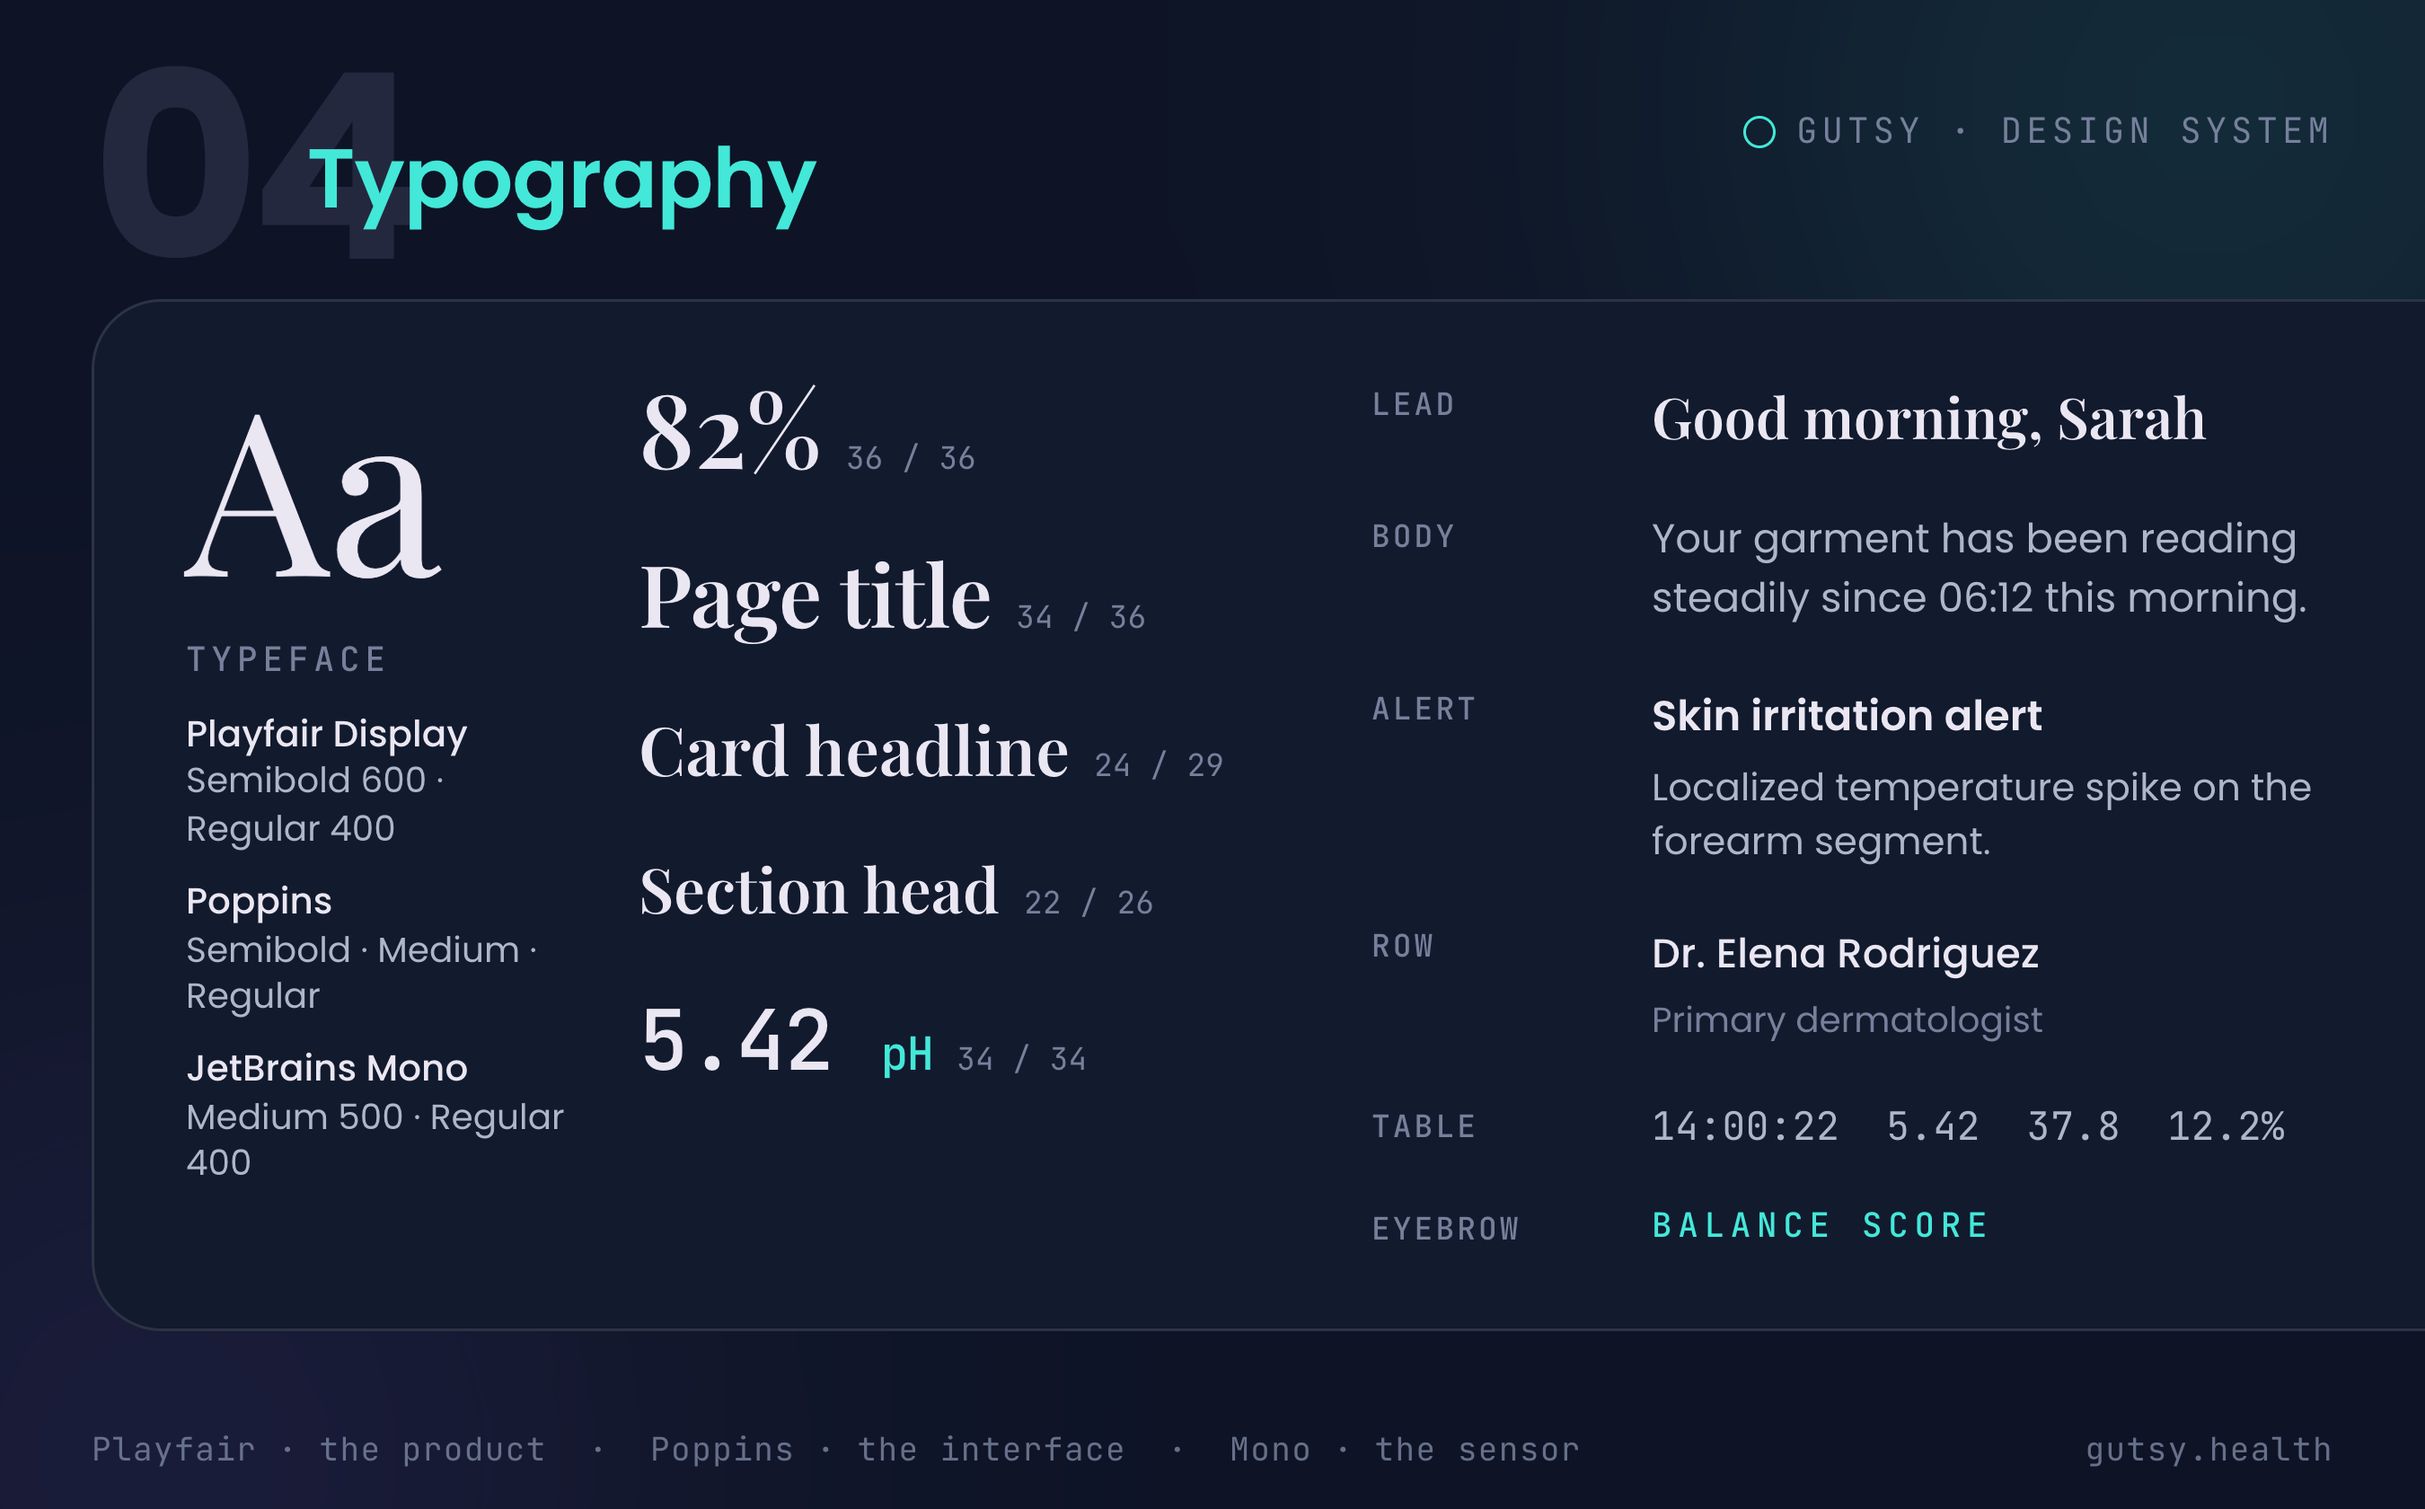
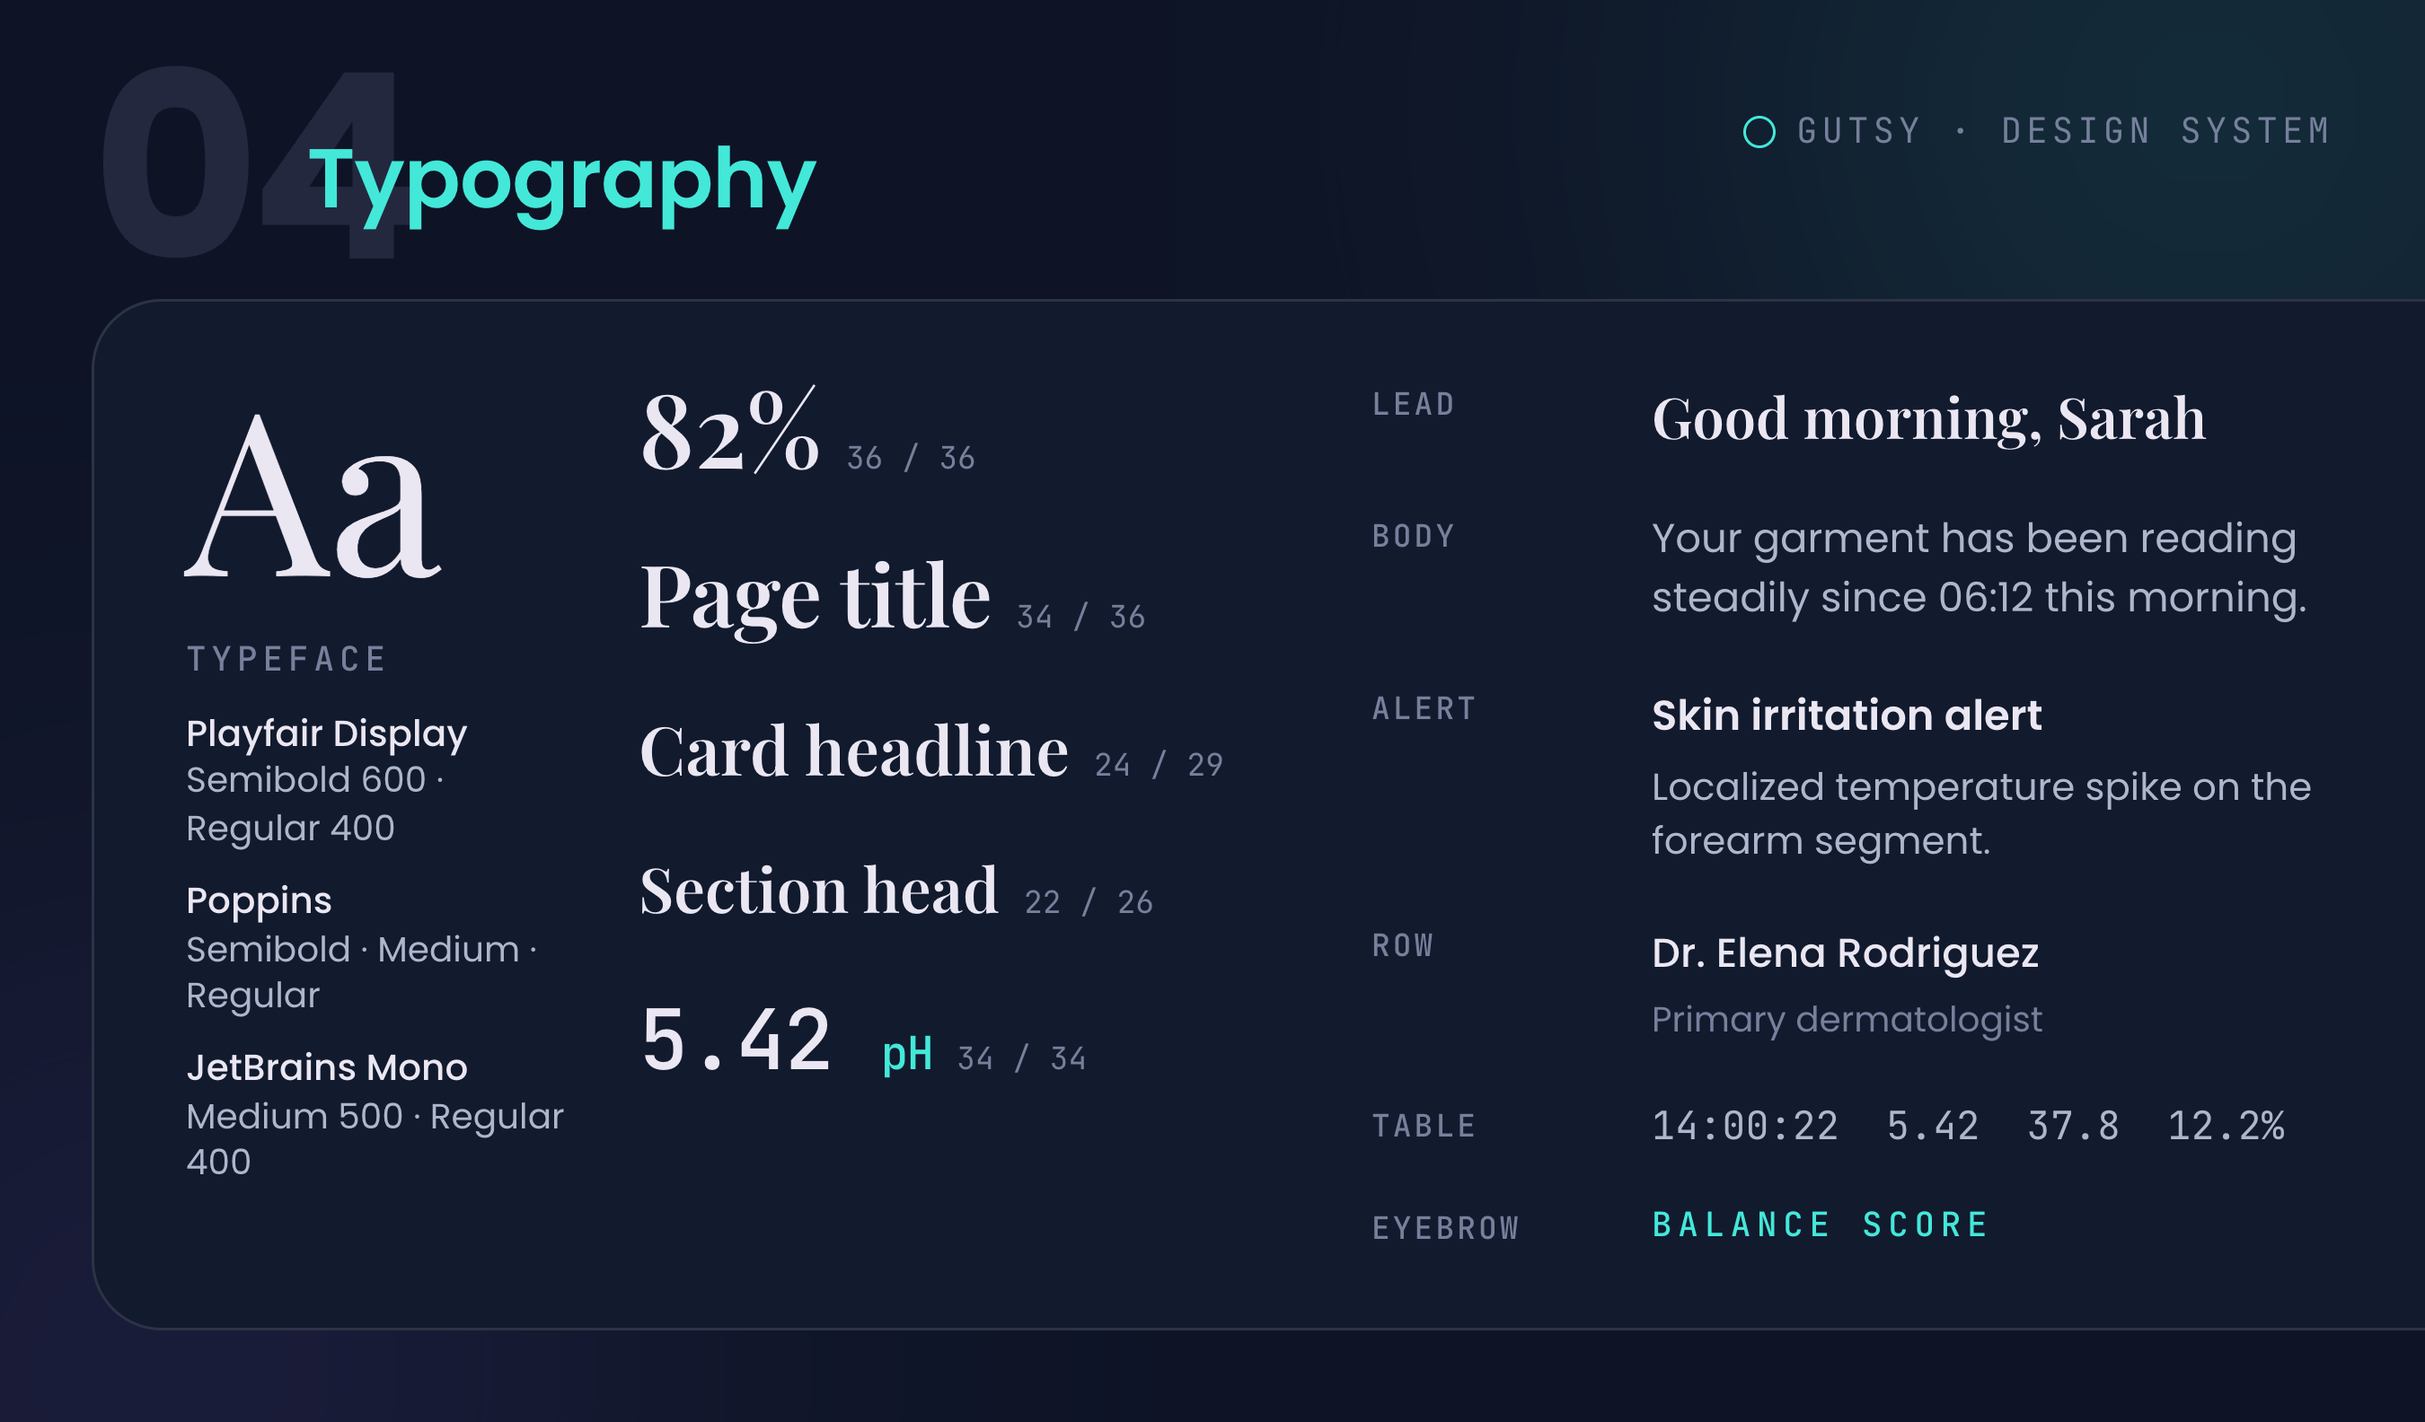
Gutsy: drop the specimen footer, use the cover shot as the work tile
- Removes the "Playfair · the product ..." strip from the bottom of the
  type specimen and closes the canvas to 900x528 so nothing floats.
- Work grid frame 02 now carries the real brand/product shot instead of
  the generic padlock wireframe. The full-bleed "Under NDA" wash is gone
  with it, since a 48% white overlay would have greyed out the
  photograph and the case study is open now; the small "under NDA" chip
  keeps the signal. Palette dots swapped to Gutsy's cyan/lavender/void.

Claude-Session: https://claude.ai/code/session_01JGZMiJWn12CtdzbaRzb7zB

diff --git a/src/app/page.tsx b/src/app/page.tsx
@@ -213,30 +213,14 @@ export default function Home() {
                   <span className="n">02</span>
                 </div>
                 <div className="artboard">
-                  <svg viewBox="0 0 280 210" preserveAspectRatio="xMidYMid slice">
-                    <rect width="280" height="210" fill="#f5f6fe" />
-                    <rect x="26" y="24" width="228" height="162" rx="9" fill="#fff" stroke="#dfe2fb" />
-                    <rect x="26" y="24" width="228" height="26" rx="9" fill="#eef0fd" />
-                    <circle cx="42" cy="37" r="3.2" fill="#c7cdf4" />
-                    <circle cx="53" cy="37" r="3.2" fill="#c7cdf4" />
-                    <circle cx="64" cy="37" r="3.2" fill="#c7cdf4" />
-                    <rect x="44" y="66" width="120" height="13" rx="4" fill="#cdd3f7" />
-                    <rect x="44" y="86" width="190" height="13" rx="4" fill="#dfe3fb" />
-                    <rect x="44" y="106" width="150" height="13" rx="4" fill="#dfe3fb" />
-                    <rect x="44" y="132" width="86" height="13" rx="4" fill="#cdd3f7" />
-                    <rect x="44" y="152" width="120" height="13" rx="4" fill="#dfe3fb" />
-                    <circle cx="200" cy="138" r="30" fill="#5B27E5" />
-                    <rect x="189" y="135" width="22" height="17" rx="3" fill="#fff" />
-                    <path d="M193 135 v-4 a7 7 0 0 1 14 0 v4" fill="none" stroke="#fff" strokeWidth="2.6" />
-                    <circle cx="200" cy="143" r="2.6" fill="#5B27E5" />
-                  </svg>
+                  {/* eslint-disable-next-line @next/next/no-img-element */}
+                  <img src="/assets/images/moonshot/gutsy-cover.png" alt="Gutsy brand and product shot" />
                   <span className="tok-chip annot">
-                    <i style={{ background: "#5B27E5" }} />
-                    <i style={{ background: "#cdd3f7" }} />
-                    <i style={{ background: "#1A1430" }} />
+                    <i style={{ background: "#43E8D8" }} />
+                    <i style={{ background: "#C6B6F4" }} />
+                    <i style={{ background: "#070A14" }} />
                   </span>
-                  <span className="coming"><b>Under NDA</b></span>
-                  <span className="dim-chip annot">confidential</span>
+                  <span className="dim-chip annot">under NDA</span>
                   <span className="hh tl" />
                   <span className="hh tr" />
                   <span className="hh bl" />

diff --git a/src/app/home.css b/src/app/home.css
@@ -923,6 +923,16 @@
   width: 100%;
   height: 100%;
 }
+/* a work tile can carry a real cover shot instead of a wireframe SVG */
+.home .artboard img {
+  position: absolute;
+  inset: 0;
+  width: 100%;
+  height: 100%;
+  object-fit: cover;
+  border-radius: 2px;
+  display: block;
+}
 .home .artboard .hh {
   position: absolute;
   width: 8px;
